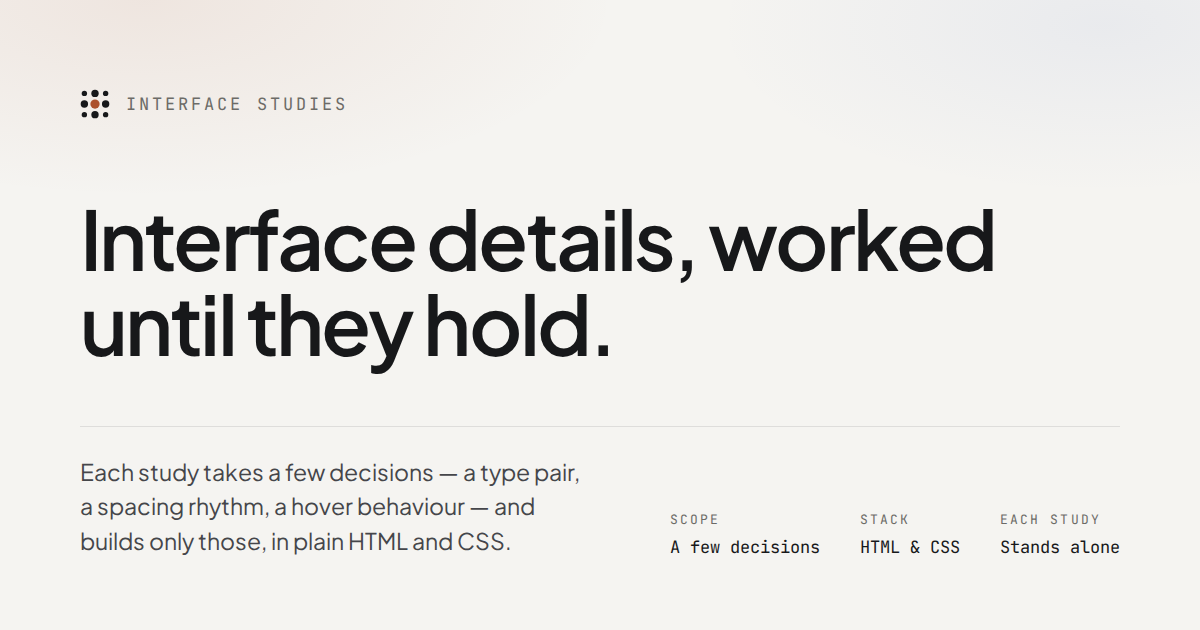
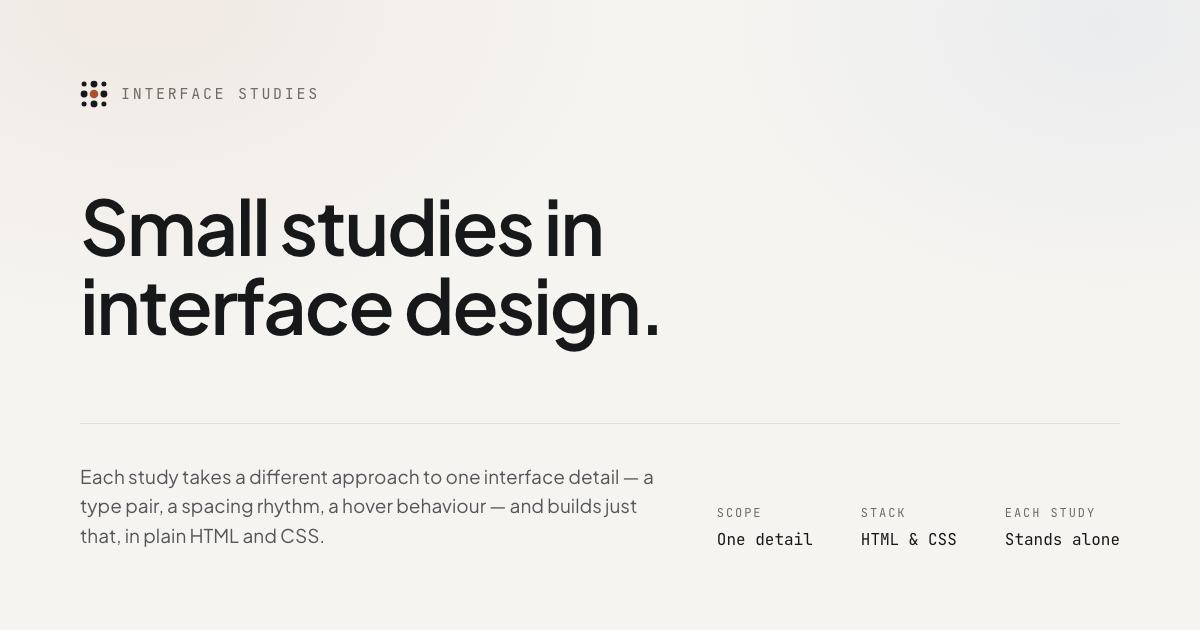
The masthead says what the page is
"Interface details, worked until they hold" was an aphorism standing where a
description belongs. It read as a claim about craft rather than an account of
the site, and "hold" had no object — hold up under what? Someone arriving at a
showcase wants to know what they are looking at.

So the headline is now a plain noun phrase: small studies in interface design.
The lede keeps its list, which was always the best thing on the page — a type
pair, a spacing rhythm, a hover behaviour is concrete and shows the scale — but
it now frames the studies as different approaches to one detail rather than as
a few decisions taken. "Builds just that" lands at the end of the clause it
belongs to instead of being buried mid-sentence, and "tied to no framework" is
no longer an inversion hung off the back of an already long sentence.

The hover hint shifted pronoun halfway through — run *it* in place, or open
*one* at full size. Both variants say "it" now, in the markup fallback and in
LEDE_EN.

The title lived in four places: the h1, og:title, og:image:alt and the Danish
table. All four follow, along with the meta description and og:description.

og.png is the fifth, and it is a picture rather than a string, so it is
re-rendered: same composition, same tokens and type scale off index.css, with
the mark drawn at rest since a scraper only ever gets a still frame. Its Scope
value was quoting the old lede's phrase and now reads One detail.

diff --git a/index.html b/index.html
@@ -6,7 +6,7 @@
     <title>Interface Studies</title>
     <meta
       name="description"
-      content="Studies in interface detail, each built in plain HTML and CSS and kept self-contained." />
+      content="A showcase of small interface studies, each built in plain HTML and CSS and kept self-contained." />
 
     <link rel="preconnect" href="https://fonts.googleapis.com" />
     <link rel="preconnect" href="https://fonts.gstatic.com" crossorigin />
@@ -30,16 +30,16 @@
     <meta property="og:site_name" content="Interface Studies" />
     <meta
       property="og:title"
-      content="Interface Studies — interface details, worked until they hold" />
+      content="Interface Studies — small studies in interface design" />
     <meta
       property="og:description"
-      content="Each study takes a few decisions — a type pair, a spacing rhythm, a hover behaviour — and builds only those, in plain HTML and CSS, tied to no framework." />
+      content="Each study takes a different approach to one interface detail — a type pair, a spacing rhythm, a hover behaviour — and builds just that, in plain HTML and CSS." />
     <meta property="og:image" content="og.png" />
     <meta property="og:image:width" content="1200" />
     <meta property="og:image:height" content="630" />
     <meta
       property="og:image:alt"
-      content="Interface Studies: interface details, worked until they hold." />
+      content="Interface Studies: small studies in interface design." />
     <meta name="twitter:card" content="summary_large_image" />
     <meta name="twitter:creator" content="@LouisDyrhauge" />
 
@@ -86,7 +86,7 @@
         Interface Studies
       </p>
       <h1 class="head__title" data-i18n="head.title">
-        Interface details, worked until they hold.
+        Small studies in interface design.
       </h1>
       <!-- The closing sentence tells you how to work the rail, and that is
          not the same instruction on a phone as on a laptop — so it is written
@@ -94,12 +94,12 @@
          only the part that holds true either way is markup. -->
       <p class="head__lede">
         <span data-i18n="head.lede">
-          Each study takes a few decisions — a type pair, a spacing rhythm, a
-          hover behaviour — and builds only those, in plain HTML and CSS, tied
-          to no framework.
+          Each study takes a different approach to one interface detail — a
+          type pair, a spacing rhythm, a hover behaviour — and builds just
+          that, in plain HTML and CSS with no framework.
         </span>
         <span data-lede-hint>
-          Hover a card to run it in place, or open one at full size.
+          Hover a card to run it in place, or open it at full size.
         </span>
       </p>
 

diff --git a/index.js b/index.js
@@ -42,10 +42,10 @@
 
   const COPY = {
     da: {
-      'head.title': 'Interfacedetaljer, bearbejdet indtil de holder.',
-      'head.lede': 'Hvert studie tager få beslutninger — et typografipar, en '
-        + 'spatieringsrytme, en hover-adfærd — og bygger kun dem, i ren HTML '
-        + 'og CSS, uden binding til noget framework.',
+      'head.title': 'Små studier i interfacedesign.',
+      'head.lede': 'Hvert studie tager en anden tilgang til én interfacedetalje '
+        + '— et typografipar, en spatieringsrytme, en hover-adfærd — og bygger '
+        + 'kun den, i ren HTML og CSS uden framework.',
       'head.ledeHint': 'Hold musen over et kort for at afspille det, eller åbn '
         + 'det i fuld størrelse.',
       'head.ledeHintTouch': 'Tryk på hurtigt kig for at afspille et kort, eller '
@@ -1452,8 +1452,8 @@
   };
 
   const LEDE_EN = {
-    pointer: 'Hover a card to run it in place, or open one at full size.',
-    touch: 'Tap quick look to run a card in place, or open one at full size.'
+    pointer: 'Hover a card to run it in place, or open it at full size.',
+    touch: 'Tap quick look to run a card in place, or open it at full size.'
   };
 
   // Held so a pointer-type change can re-render without waiting for the next
